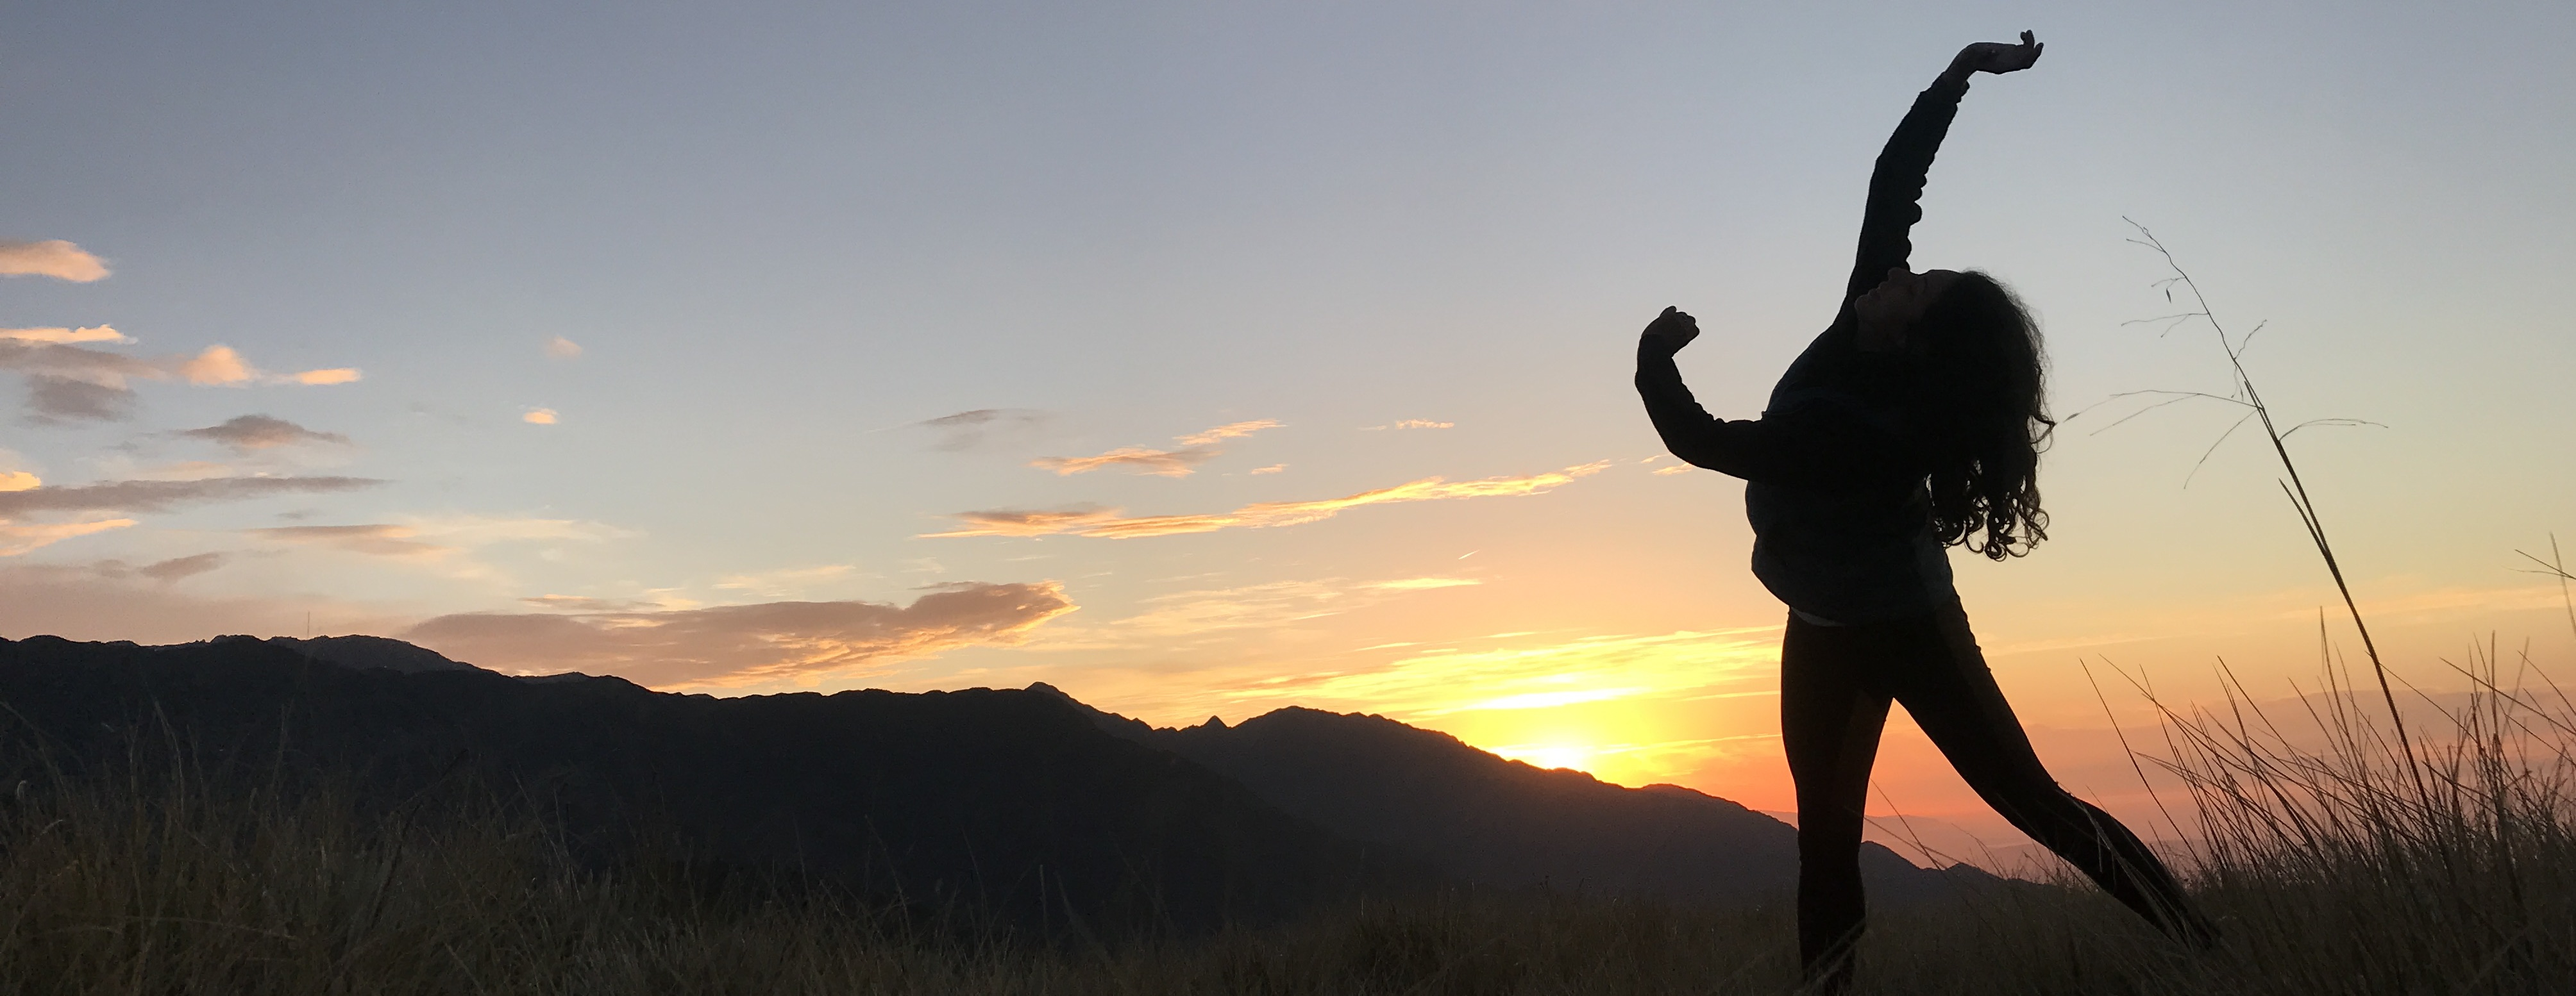
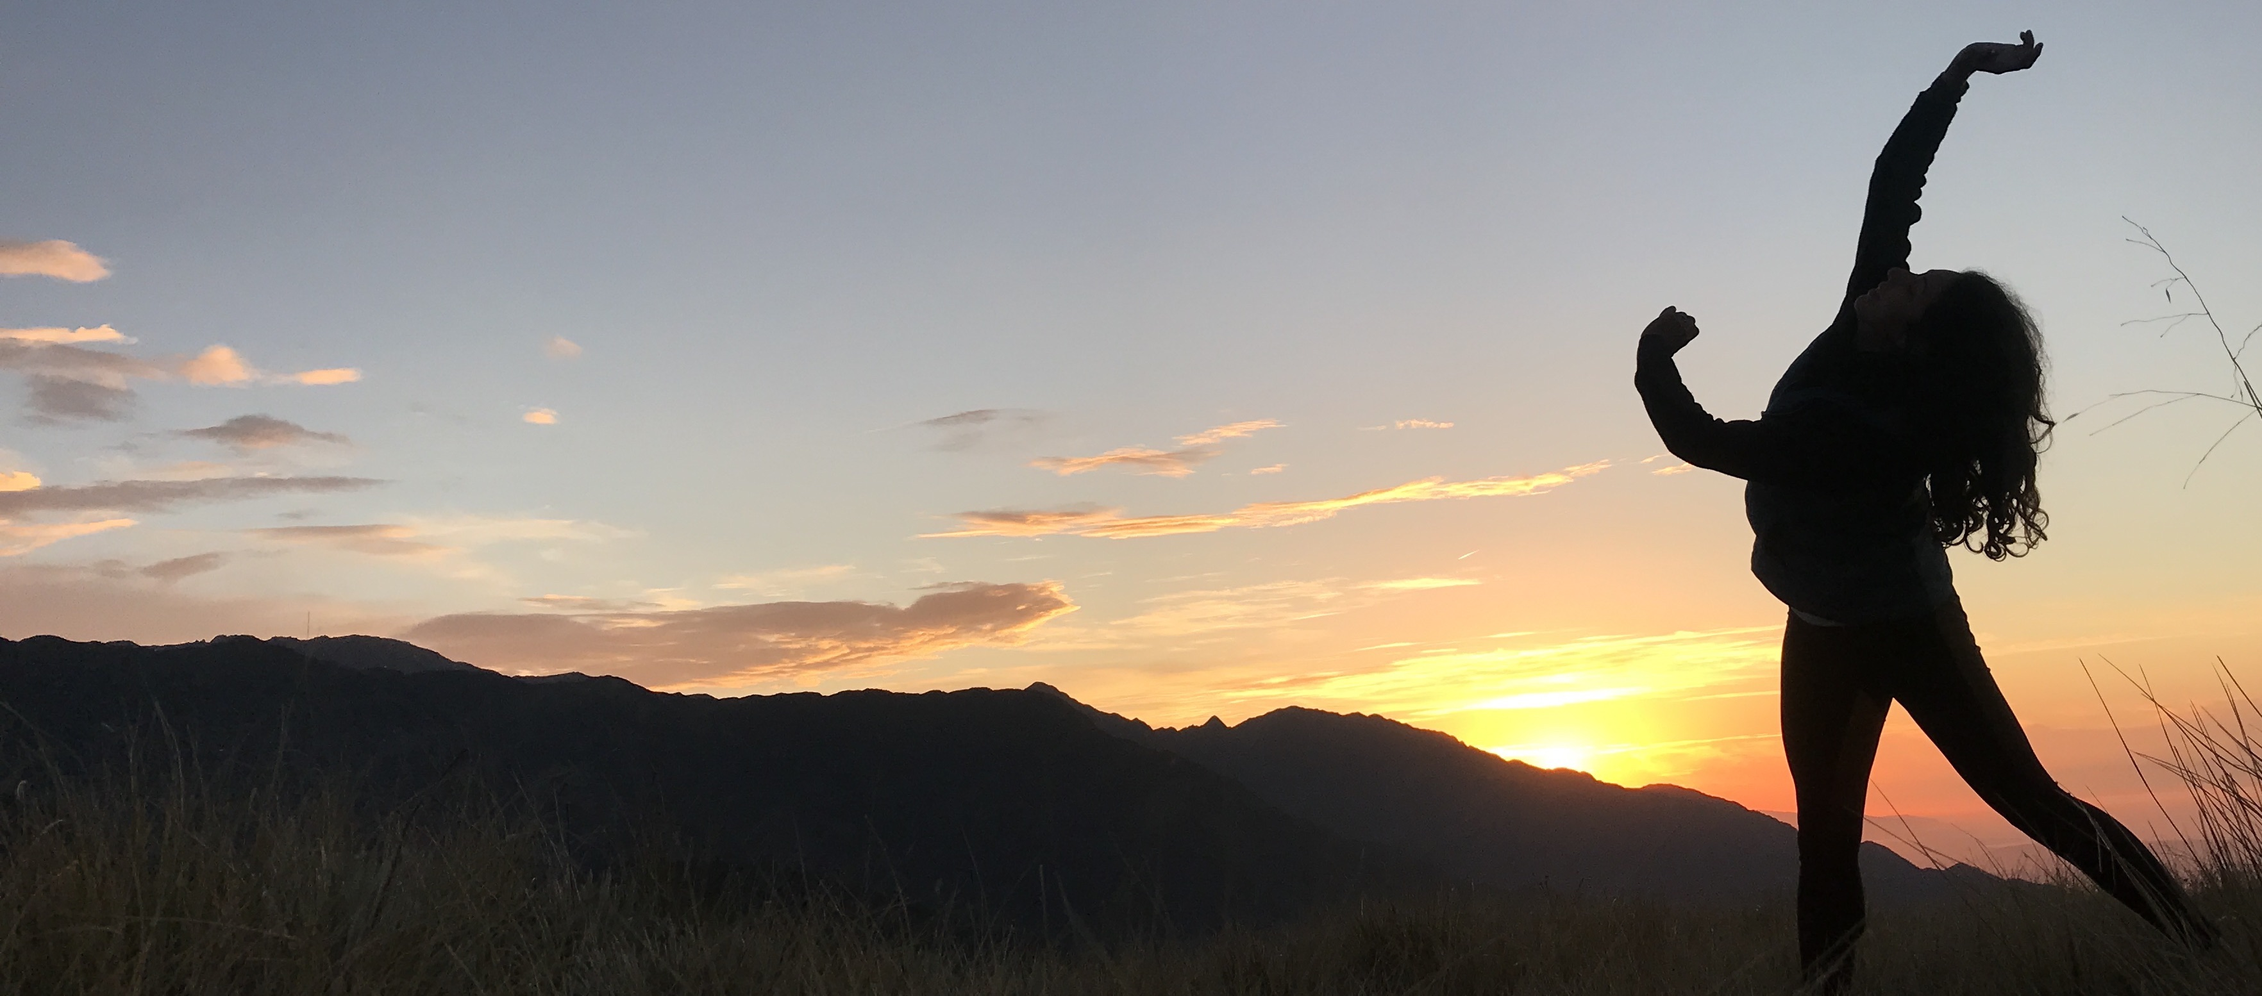
Better hero image

diff --git a/layouts/partials/page-header.html b/layouts/partials/page-header.html
@@ -16,7 +16,7 @@
   </header>
   <script>
     {{/* Ugly hack because of relative urls */}}
-    document.getElementById('featured-image-header').setAttribute('style', 'background-image: url(' + document.getElementById('featured-image-img').getAttribute('src') + ')');
+    document.getElementById('featured-image-header').setAttribute('style', 'background-image: url(' + document.getElementById('featured-image-img').getAttribute('src') + '); background-position: right bottom;');
   </script>
 {{ else }}
   <header>

diff --git a/layouts/partials/site-header.html b/layouts/partials/site-header.html
@@ -18,7 +18,7 @@
   </header>
   <script>
     {{/* Ugly hack because of relative urls */}}
-    document.getElementById('featured-image-header').setAttribute('style', 'background-image: url(' + document.getElementById('featured-image-img').getAttribute('src') + ')');
+    document.getElementById('featured-image-header').setAttribute('style', 'background-image: url(' + document.getElementById('featured-image-img').getAttribute('src') + '); background-position: right bottom;');
   </script>
 {{ else }}
   <header>
